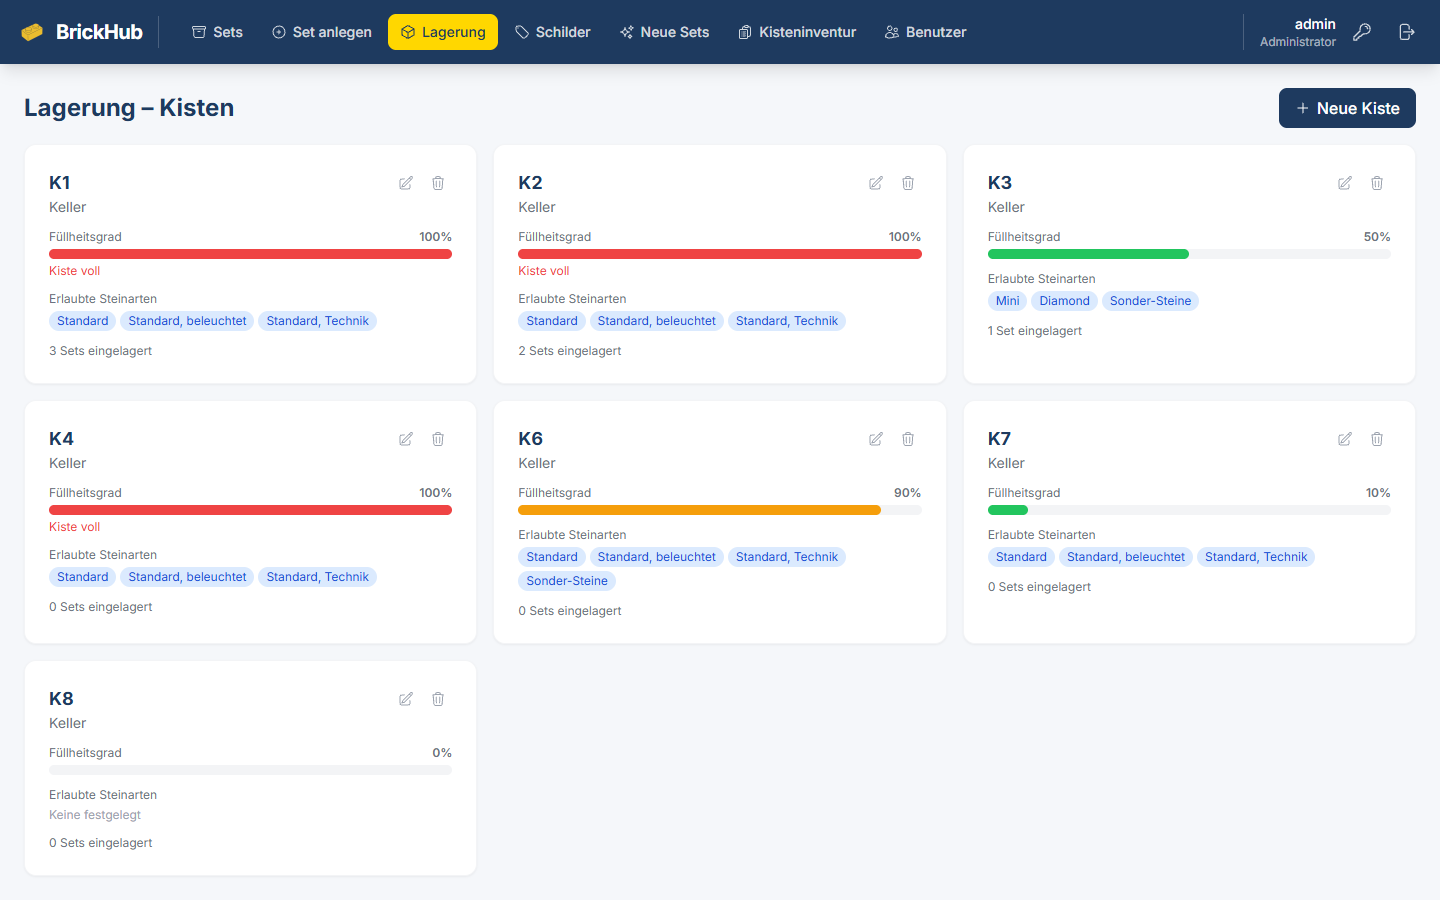
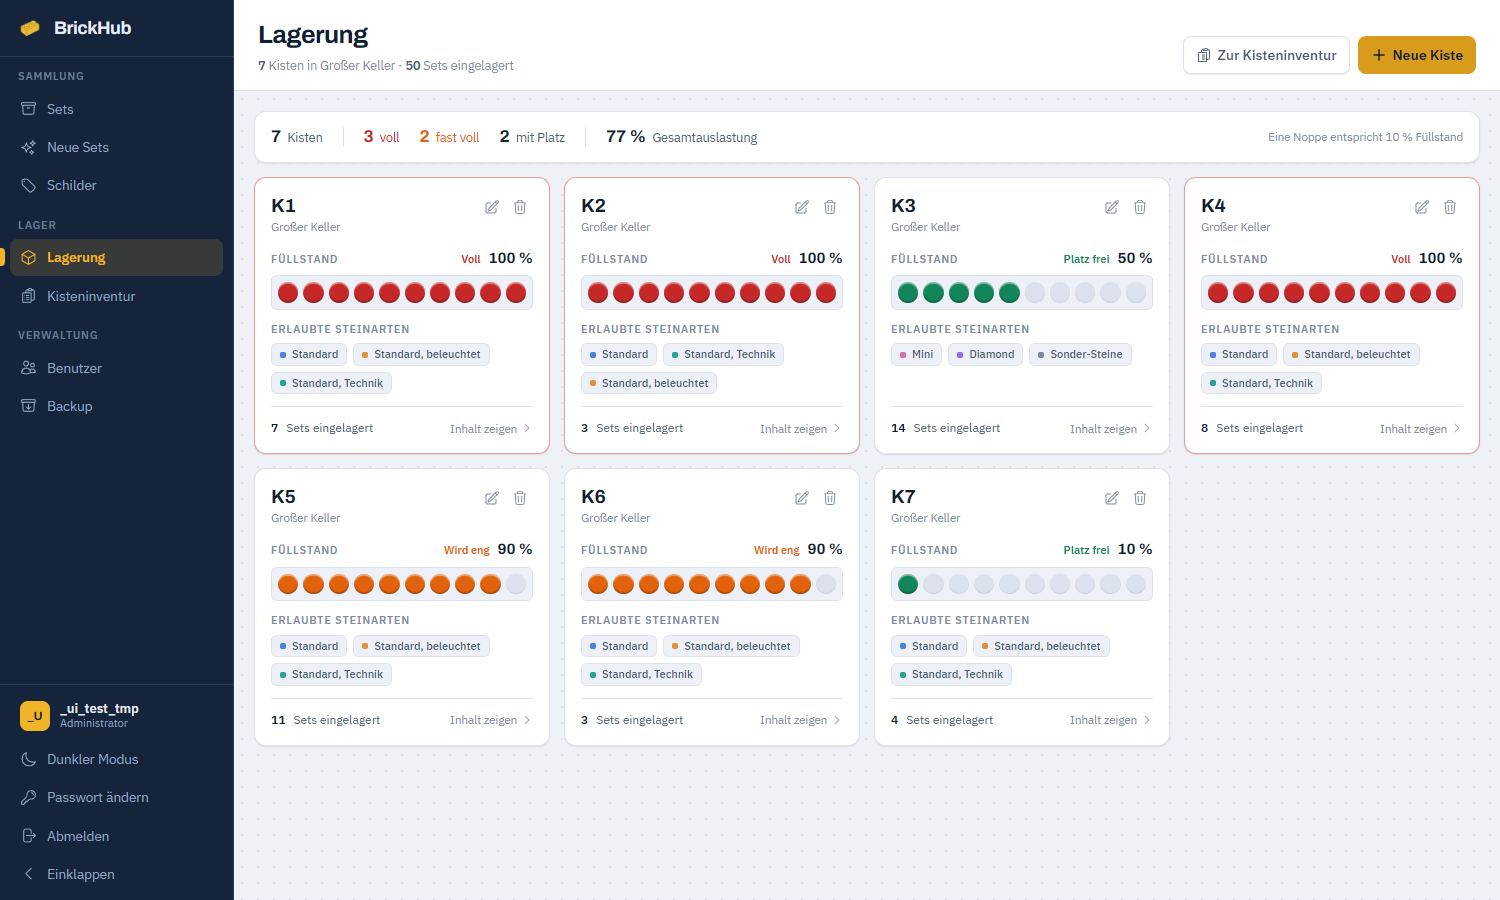
Docs: README-Screenshots auf das 2.0-Design
Zwoelf Screenshots neu aufgenommen, zwei Abschnitte dazu.

- Neu: Galerie-Ansicht und Dunkelmodus - beide gab es in 1.0 nicht
- Reihenfolge nach Arbeitsablauf sortiert: Sammlung, Lager, Bearbeiten,
  Ausgabe, Verwaltung. Vorher standen PDF-Export und Backup zwischen den
  Uebersichtsseiten
- Kurze Erlaeuterungen unter den drei wichtigsten Bildern
- Tailwind-Badge von 3 auf 4

Unveraendert uebernommen: pdf-export.png und schilder.png zeigen erzeugte
PDFs, die sich nicht geaendert haben.

image-editor.png zeigt weiterhin das 1.0-Design. Der Bildeditor laesst sich
per Automatisierung nicht in den Zustand mit geladenem Bild bringen - die
Leinwand bleibt bei 300x150 und es wird nichts gezeichnet. Gegengeprueft am
Stand 488be35 (vor dem Design-Umbau): dort verhaelt er sich identisch, es ist
also keine Folge dieser Aenderungen. Der Screenshot muss von Hand nachgezogen
werden.

diff --git a/README.md b/README.md
@@ -6,7 +6,7 @@ Webapplikation zur Verwaltung, Inventarisierung und Einlagerung von Klemmbaustei
 ![FastAPI](https://img.shields.io/badge/FastAPI-0.135-009688?logo=fastapi)
 ![React](https://img.shields.io/badge/React-19-61DAFB?logo=react)
 ![Vite](https://img.shields.io/badge/Vite-8-646CFF?logo=vite)
-![Tailwind](https://img.shields.io/badge/Tailwind_CSS-3-06B6D4?logo=tailwindcss)
+![Tailwind](https://img.shields.io/badge/Tailwind_CSS-4-06B6D4?logo=tailwindcss)
 ![SQLite](https://img.shields.io/badge/SQLite-003B57?logo=sqlite)
 ![Docker](https://img.shields.io/badge/Docker-ready-2496ED?logo=docker)
 
@@ -41,17 +41,33 @@ Es geht rund um das Thema **Klemmbausteine** und dessen Inventarisierung. Wer vi
 
 ## Screenshots
 
-### Login
+### Anmeldung
 ![Login](docs/screenshots/login.png)
 
-### Set-Übersicht mit Summary-Dashboard und Statistik-Icons
+### Set-Übersicht – Kennzahlen, Verteilung nach Steinart und die Tabelle
 ![Sets](docs/screenshots/sets-overview.png)
 
-### PDF-Setliste exportieren
-![PDF Export](docs/screenshots/pdf-export.png)
+Vorder- und Rückseite stehen nebeneinander, Status und Kiste sind direkt in der
+Zeile änderbar. Alle elf sortierbaren Spalten zeigen das auch an.
 
-### Backup exportieren / importieren mit Fortschrittsanzeige
-![Backup](docs/screenshots/backup.png)
+### Galerie-Ansicht
+![Galerie](docs/screenshots/sets-galerie.png)
+
+Dieselbe Sammlung als Cover-Raster – umschaltbar in der Kopfleiste.
+
+### Dunkelmodus
+![Dunkelmodus](docs/screenshots/sets-overview-dark.png)
+
+Folgt der Systemeinstellung, der Schalter in der Seitenleiste überschreibt sie,
+und die Wahl wird gemerkt.
+
+### Lagerverwaltung – Kisten
+![Lagerung](docs/screenshots/storage.png)
+
+Der Füllstand steht als Noppenreihe: eine Noppe je 10 Prozent.
+
+### Kisteninventur – Welches Set liegt wo?
+![Kisteninventur](docs/screenshots/box-inventory.png)
 
 ### Set bearbeiten – Grunddaten & OneDrive
 ![Set bearbeiten](docs/screenshots/set-edit.png)
@@ -65,20 +81,20 @@ Es geht rund um das Thema **Klemmbausteine** und dessen Inventarisierung. Wer vi
 ### ImageEditor – Eckpunkte setzen & Perspektivkorrektur
 ![ImageEditor](docs/screenshots/image-editor.png)
 
-### Lagerverwaltung – Kisten
-![Lagerung](docs/screenshots/storage.png)
-
-### Kisteninventur – Welches Set liegt wo?
-![Kisteninventur](docs/screenshots/box-inventory.png)
-
 ### Einlagerungsschilder generieren
 ![Schilder](docs/screenshots/labels.png)
 
 ### Beispiel: Generiertes Schilder-PDF
 ![Schilder PDF](docs/screenshots/schilder.png)
 
+### PDF-Setliste exportieren
+![PDF Export](docs/screenshots/pdf-export.png)
+
 ### Benutzerverwaltung
 ![Benutzer](docs/screenshots/users.png)
+
+### Backup exportieren / importieren mit Fortschrittsanzeige
+![Backup](docs/screenshots/backup.png)
 
 ---
 
